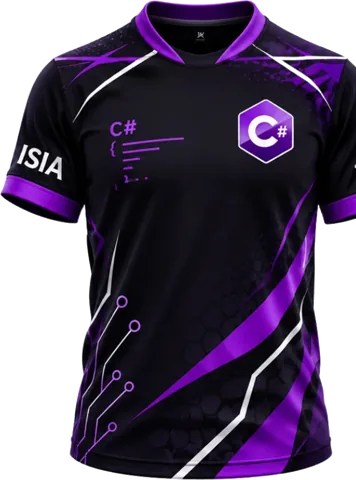
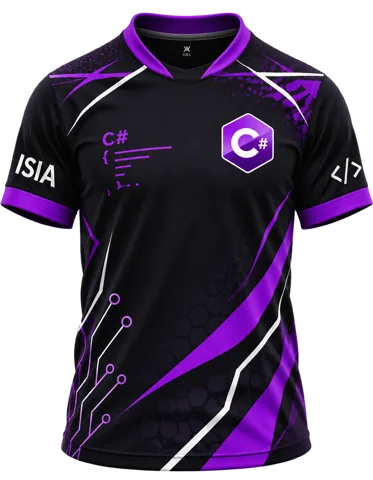
Actualizar los polos de todos los ciclos y Egresados
Claude-Session: https://claude.ai/code/session_01Ke9tfnbWaUoKEMs1kHS5j2

diff --git a/src/components/ui.tsx b/src/components/ui.tsx
@@ -4,6 +4,7 @@ import poloC6 from '../assets/polo-c6.webp'
 import poloC7 from '../assets/polo-c7.webp'
 import poloC8 from '../assets/polo-c8.webp'
 import poloC9 from '../assets/polo-c9.webp'
+import poloC3 from '../assets/polo-c3.webp'
 import poloC4 from '../assets/polo-c4.webp'
 import poloC5 from '../assets/polo-c5.webp'
 import poloCe from '../assets/polo-ce.webp'
@@ -111,7 +112,7 @@ export function ActivityCard({ a }: { a: Activity }) {
 const GENERAL_ICON: Record<string, string> = { bus1: '🚌', bus2: '🚌', desfile: '🎉', dj: '🎵', almuerzo: '🍽', baileton: '💃' }
 
 /** Fotos de los polos que ya existen. Para agregar otro: src/assets/polo-<id>.webp y añadirlo aquí. */
-const POLO_PHOTOS: Record<string, string> = { c1: poloC1, c2: poloC2, c6: poloC6, c7: poloC7, c8: poloC8, c9: poloC9, c10: poloC10, c4: poloC4, c5: poloC5, ce: poloCe }
+const POLO_PHOTOS: Record<string, string> = { c1: poloC1, c2: poloC2, c6: poloC6, c7: poloC7, c8: poloC8, c9: poloC9, c10: poloC10, c3: poloC3, c4: poloC4, c5: poloC5, ce: poloCe }
 
 export function Jersey({ g, size = 150 }: { g: Group; size?: number }) {
   const photo = POLO_PHOTOS[g.id]
